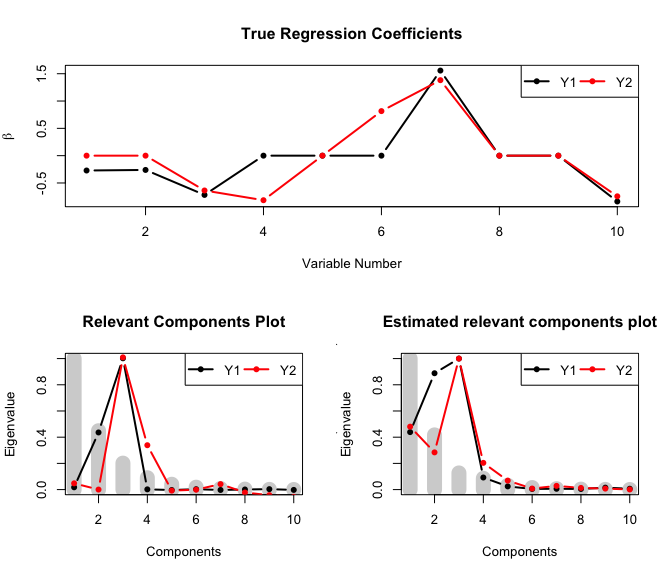
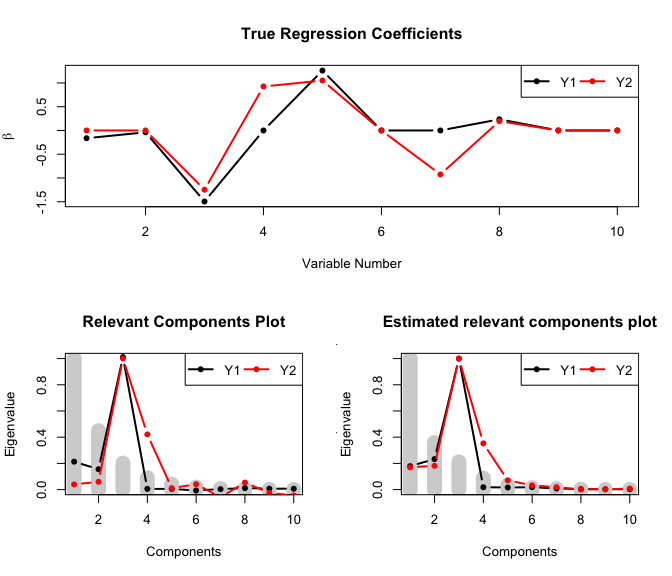
README completed

diff --git a/README.md b/README.md
@@ -2,7 +2,7 @@ Simulation of Multivariate Linear Model Data
 ================
 Raju Rimal & Solve Sæbø
 
-[![Build Status](https://travis-ci.com/therimalaya/simulatr.svg?token=typpys6NkDJ7vULJQyan&branch=master)](https://travis-ci.com/therimalaya/simulatr) [![codecov](https://codecov.io/gh/therimalaya/simulatr/branch/master/graph/badge.svg?token=sahOmz8jFf)](https://codecov.io/gh/therimalaya/simulatr)
+[![Build Status](https://travis-ci.com/therimalaya/simulatr.svg?token=typpys6NkDJ7vULJQyan&branch=master)](https://travis-ci.com/therimalaya/simulatr) <!-- [![codecov](https://codecov.io/gh/therimalaya/simulatr/branch/master/graph/badge.svg?token=sahOmz8jFf)](https://codecov.io/gh/therimalaya/simulatr) -->
 
 Introduction
 ============
@@ -98,4 +98,33 @@ plot_simulatr(simrel2_obj)
 Multivariate Simulation
 -----------------------
 
-Multivariate simulation uses `simrel_m` function and can simulate multiple responses. Lets simulate 100 training samples and 500 test samples. The simulated data has 5 responses and 15 predictors. These 5 responses spans 5 latent space out of which only 3 are related to the predictors. Let 5 predictors are relevant for response **y**~1
+Multivariate simulation uses `simrel_m` function and can simulate multiple responses. Lets simulate 100 training samples and 500 test samples. The simulated data has 5 responses and 15 predictors. These 5 responses spans 5 latent space out of which only 3 are related to the predictors. Lets denote them by **w**<sub>i</sub>. Let 5, 4 and 4 predictors are relevant for response components **w**<sub>1</sub>, **w**<sub>1</sub> and **w**<sub>1</sub> respectively. The position of relevant predictor components for **w**<sub>1</sub> be 1, 2, 3; for **w**<sub>2</sub> be 4 and 5. Similarly, predictor components 6 and 8 are relevant for **w**<sub>3</sub>.
+
+Since we need 5 response variables, we mix-up these 3 informative response components with 2 remaining uninformative components so that all simulated response contains information that **X** are related. Lets combine **w**<sub>1</sub> with **w**<sub>4</sub> and **w**<sub>3</sub> with **w**<sub>5</sub>. So that the predictors that are relevant for response components **w**<sub>1</sub> will be relevant for response **y**<sub>1</sub> and **y**<sub>3</sub> and so on.
+
+In addition to these latent space requirements, let **X** explains 80% variation present in **w**<sub>1</sub>, 50% in **w**<sub>2</sub> and 70% in **w**<sub>3</sub>. The eigenvalues of X reduces by the factor of 0.8.
+
+``` r
+simrel_m_obj <- 
+  simulatr(
+    n      = 100,                                # 100 training samples
+    p      = 15,                                 # 15 predictor variables
+    q      = c(5, 4, 4),                         # relevant variables for w1, w2 and w3
+    relpos = list(c(1, 2, 3), c(4, 5), c(6, 8)), # relevant components for w1, w2 and y3
+    R2     = c(0.8, 0.5, 0.7),                   # Coefficient of variation for w1, w2 and y3
+    ypos   = list(c(1, 4), c(2), c(3, 5)),       # combining response components together
+    m      = 5,                                  # Number of response
+    gamma  = 0.8,                                # decay factor of eigenvalues of X
+    ntest  = 500,                                # 500 test samples
+    type   = "multivariate"                      # multivariate simulation
+  )
+```
+
+Lets look at the `simrel` plot;
+
+``` r
+layout(matrix(c(1, 1, 2, 3), 2, 2, byrow = TRUE))
+plot_simulatr(simrel_m_obj)
+```
+
+![](figure/simrelm_plot-1.png)
